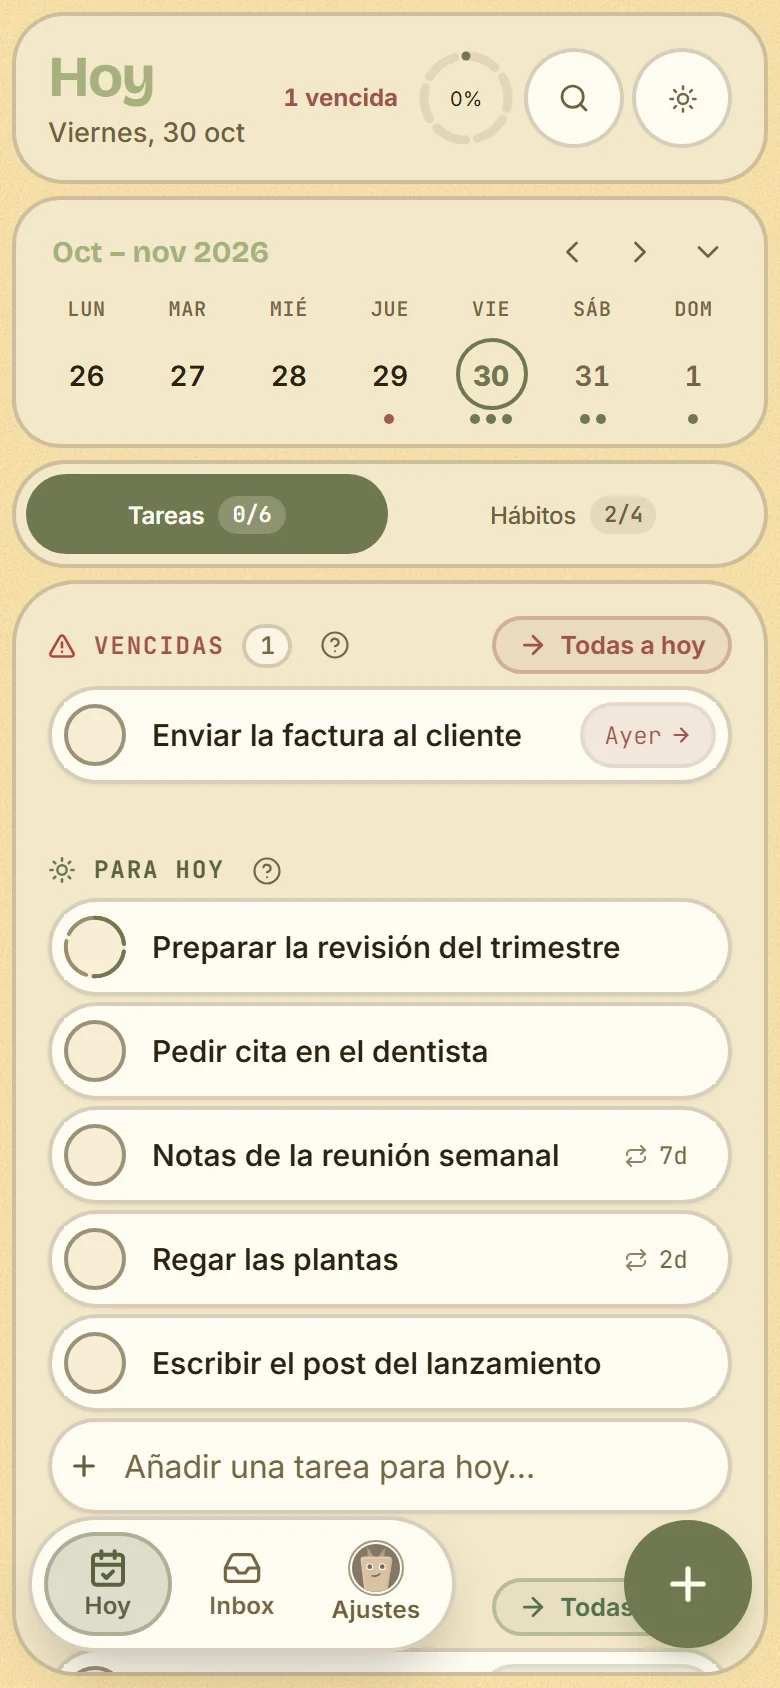
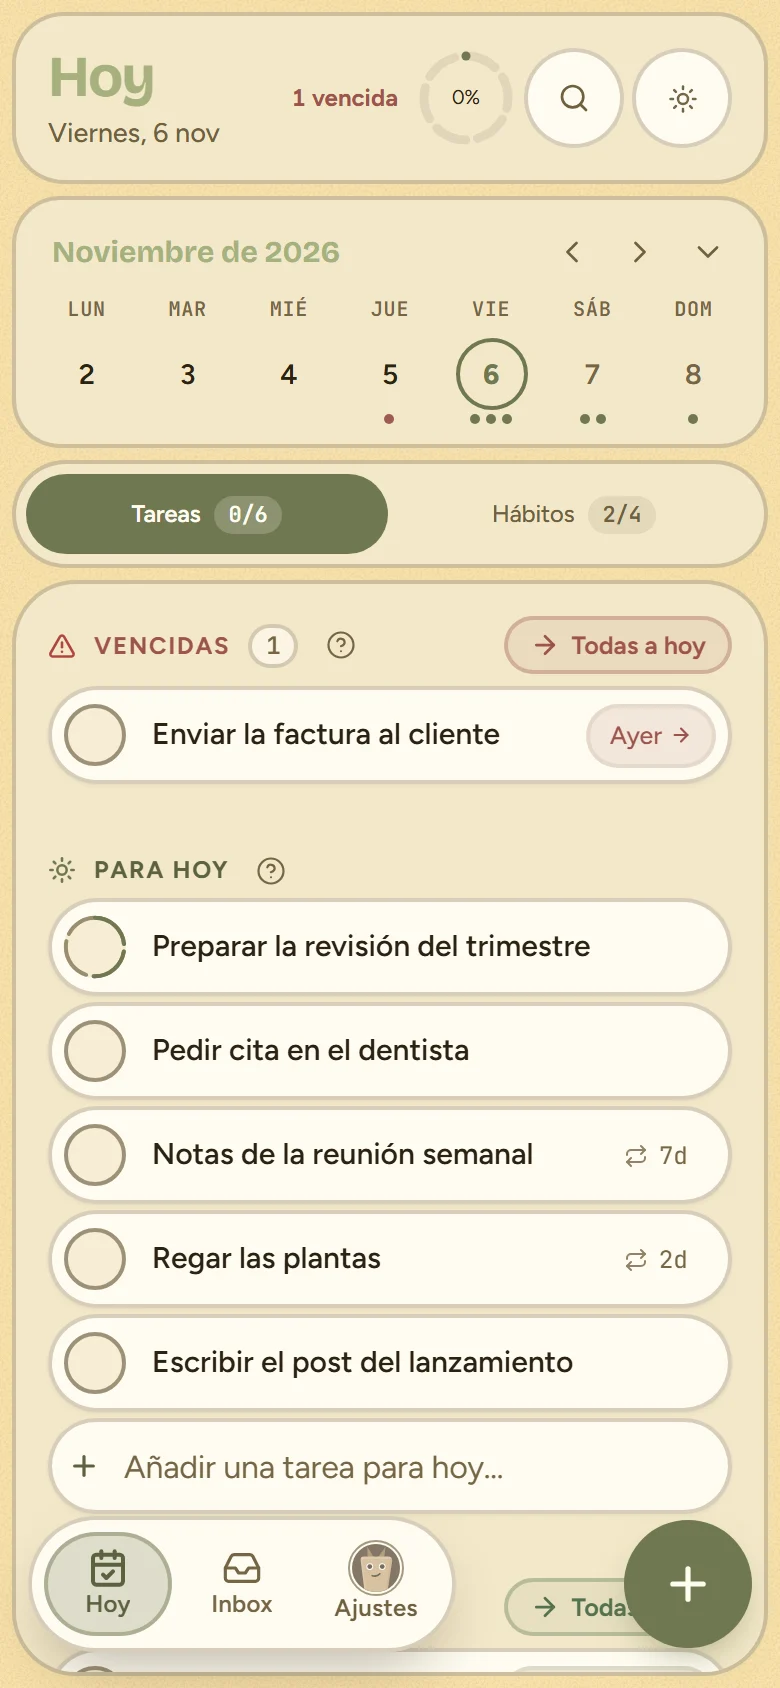
Letra del texto: Figtree en lugar de Inter, y menos monoespaciada
- --font-sans pasa a Figtree (@fontsource-variable/figtree, self-hosted).
  Los títulos siguen en Bricolage. La landing sigue en Inter.
- La mono se queda para números (contadores, horas). Fechas y acciones de
  las filas («Ayer», «Mover a hoy») y rótulos de sección van en la letra
  normal: ocupan menos y cortan menos el título de la tarea.
- --fw-semiregular 300 → 380: con Figtree, 300 dejaba el título de las
  tareas sin cuerpo en el PC, sobre todo en oscuro.
- Capturas de la landing y og-image regeneradas.

Elegida comparando capturas de la app real con Inter, DM Sans y Onest.

diff --git a/src/css/style.css b/src/css/style.css
@@ -109,13 +109,13 @@
 
   /* ─── 5. TYPOGRAPHY ─────────────────────────────────────────────
      Las tres familias del tema "tierra" del prototipo v1:
-       fontUI      → Inter                 (interfaz, texto de tarea)
-       fontMono    → JetBrains Mono        (metadatos: `monoMeta: true`)
+       fontUI      → Figtree               (interfaz, texto de tarea; antes Inter)
+       fontMono    → JetBrains Mono        (solo números: contadores, horas)
        fontDisplay → Bricolage Grotesque   (títulos, marca)               */
-  --font-sans: 'Inter Variable', 'Inter', system-ui, -apple-system, sans-serif;
+  --font-sans: 'Figtree Variable', 'Figtree', system-ui, -apple-system, sans-serif;
   --font-mono: 'JetBrains Mono Variable', 'JetBrains Mono', 'Fira Code', monospace;
   --font-display: 'Bricolage Grotesque Variable', 'Bricolage Grotesque',
-    'Inter Variable', 'Inter', system-ui, sans-serif;
+    'Figtree Variable', 'Figtree', system-ui, sans-serif;
 
   /* Escala alineada con el prototipo v1 (tema tierra). */
   --fs-xs: 11px;
@@ -140,7 +140,9 @@
   /* Títulos display — v1 tierra: titleWeight 700, titleTrack -0.035em. */
   --title-track: -0.035em;
 
-  --fw-semiregular: 300;
+  /* 380 y no 300: con Figtree, 300 ya es «ligera» de verdad y el título de
+     las tareas se quedaba sin cuerpo, sobre todo en oscuro. */
+  --fw-semiregular: 380;
   --fw-regular: 400;
   --fw-medium: 500;
   --fw-semibold: 600;
@@ -15199,3 +15201,33 @@ body.hoy-arrastrando,
 body.hoy-arrastrando * {
   cursor: grabbing !important;
 }
+
+/* ─── MENOS MONOESPACIADA ─────────────────────────────────────
+   La mono se queda para los números (contadores, horas, «0/3»). Las
+   fechas y acciones de las filas («Ayer», «Mover a hoy») y los rótulos
+   de sección pasan a la letra normal: en mono se leían como una terminal,
+   ocupaban más ancho y cortaban antes el título de la tarea. Elegido
+   comparando capturas de la app real (nov-2026).
+
+   Con !important a propósito: esas piezas fijan su familia y su
+   espaciado en muchos sitios (base, móvil, cada estilo de fila, tema
+   claro), varios con más peso que una clase. Aquí se decide una vez. */
+.due-badge,
+.today-date-pill,
+.task-list-badge {
+  font-family: var(--font-sans) !important;
+  letter-spacing: 0 !important;
+  font-size: 12.5px !important;
+  font-weight: 500 !important;
+}
+
+.hoy-section-title,
+.inbox-tasks-label,
+.sidebar-section-label,
+.profile-section-label,
+.hoja-tarea-rotulo,
+.modal-sheet-heading {
+  font-family: var(--font-sans) !important;
+  letter-spacing: 0.07em !important;
+}
+

diff --git a/src/js/main.js b/src/js/main.js
@@ -16,7 +16,7 @@
 // Fuentes self-hosted (sin requests a Google Fonts).
 // Inter = UI, JetBrains Mono = metadatos, Bricolage Grotesque = display
 // (títulos y marca), tal como define el tema "tierra" del prototipo v1.
-import "@fontsource-variable/inter";
+import "@fontsource-variable/figtree";
 import "@fontsource-variable/jetbrains-mono";
 import "@fontsource-variable/jetbrains-mono/wght-italic.css";
 import "@fontsource-variable/bricolage-grotesque/wght.css";
